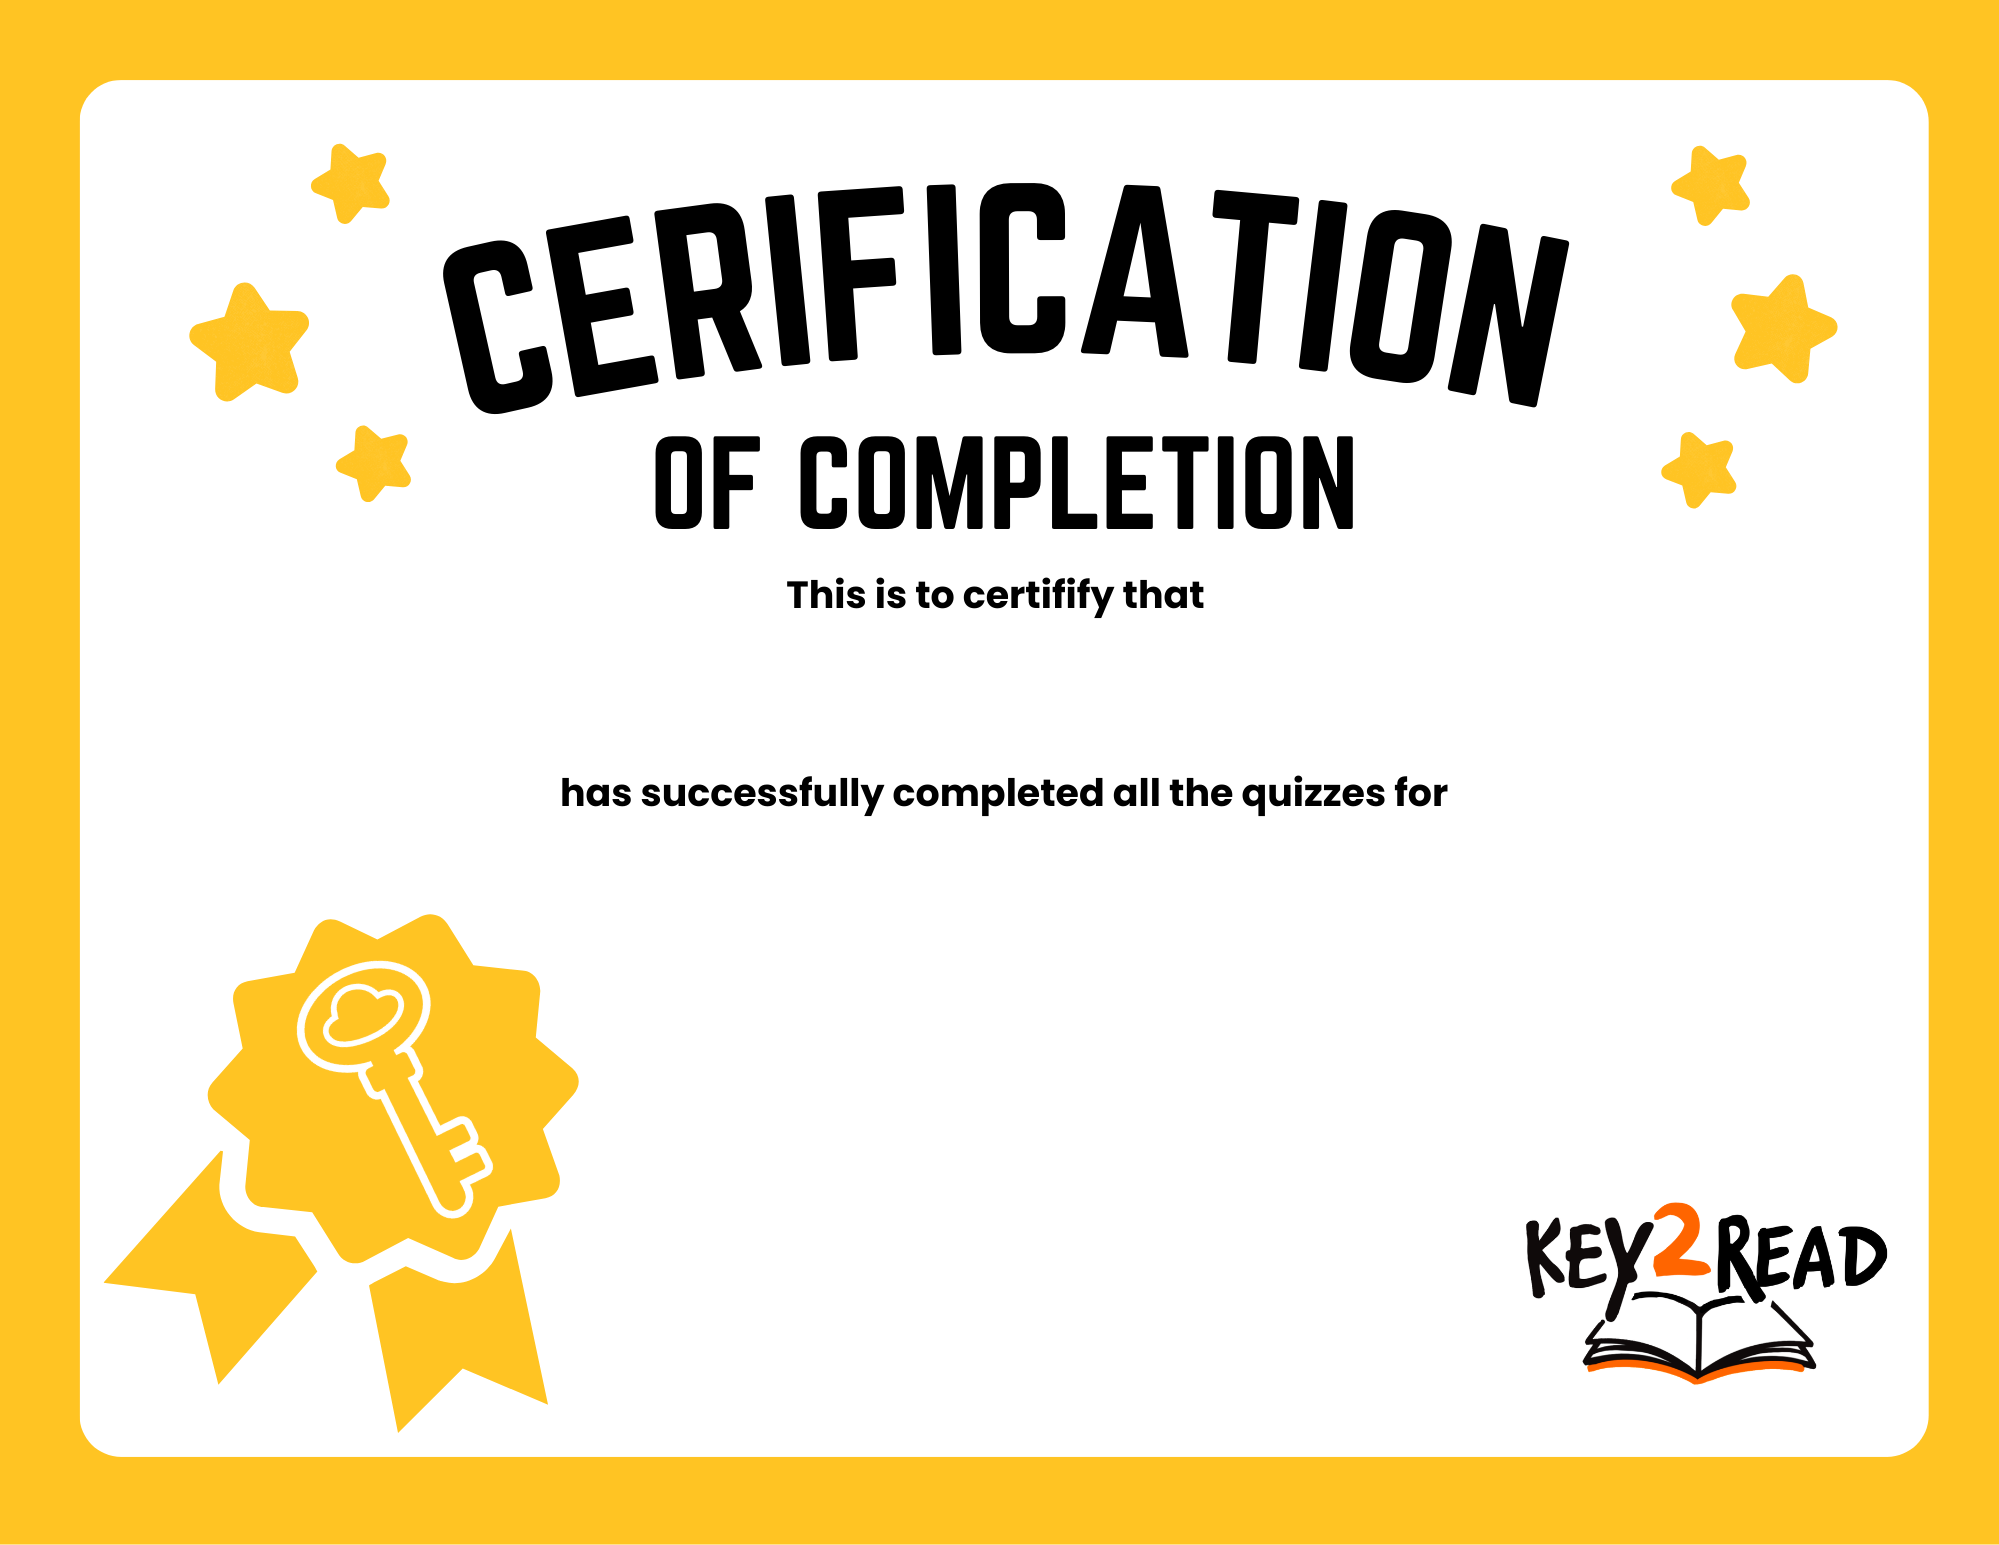
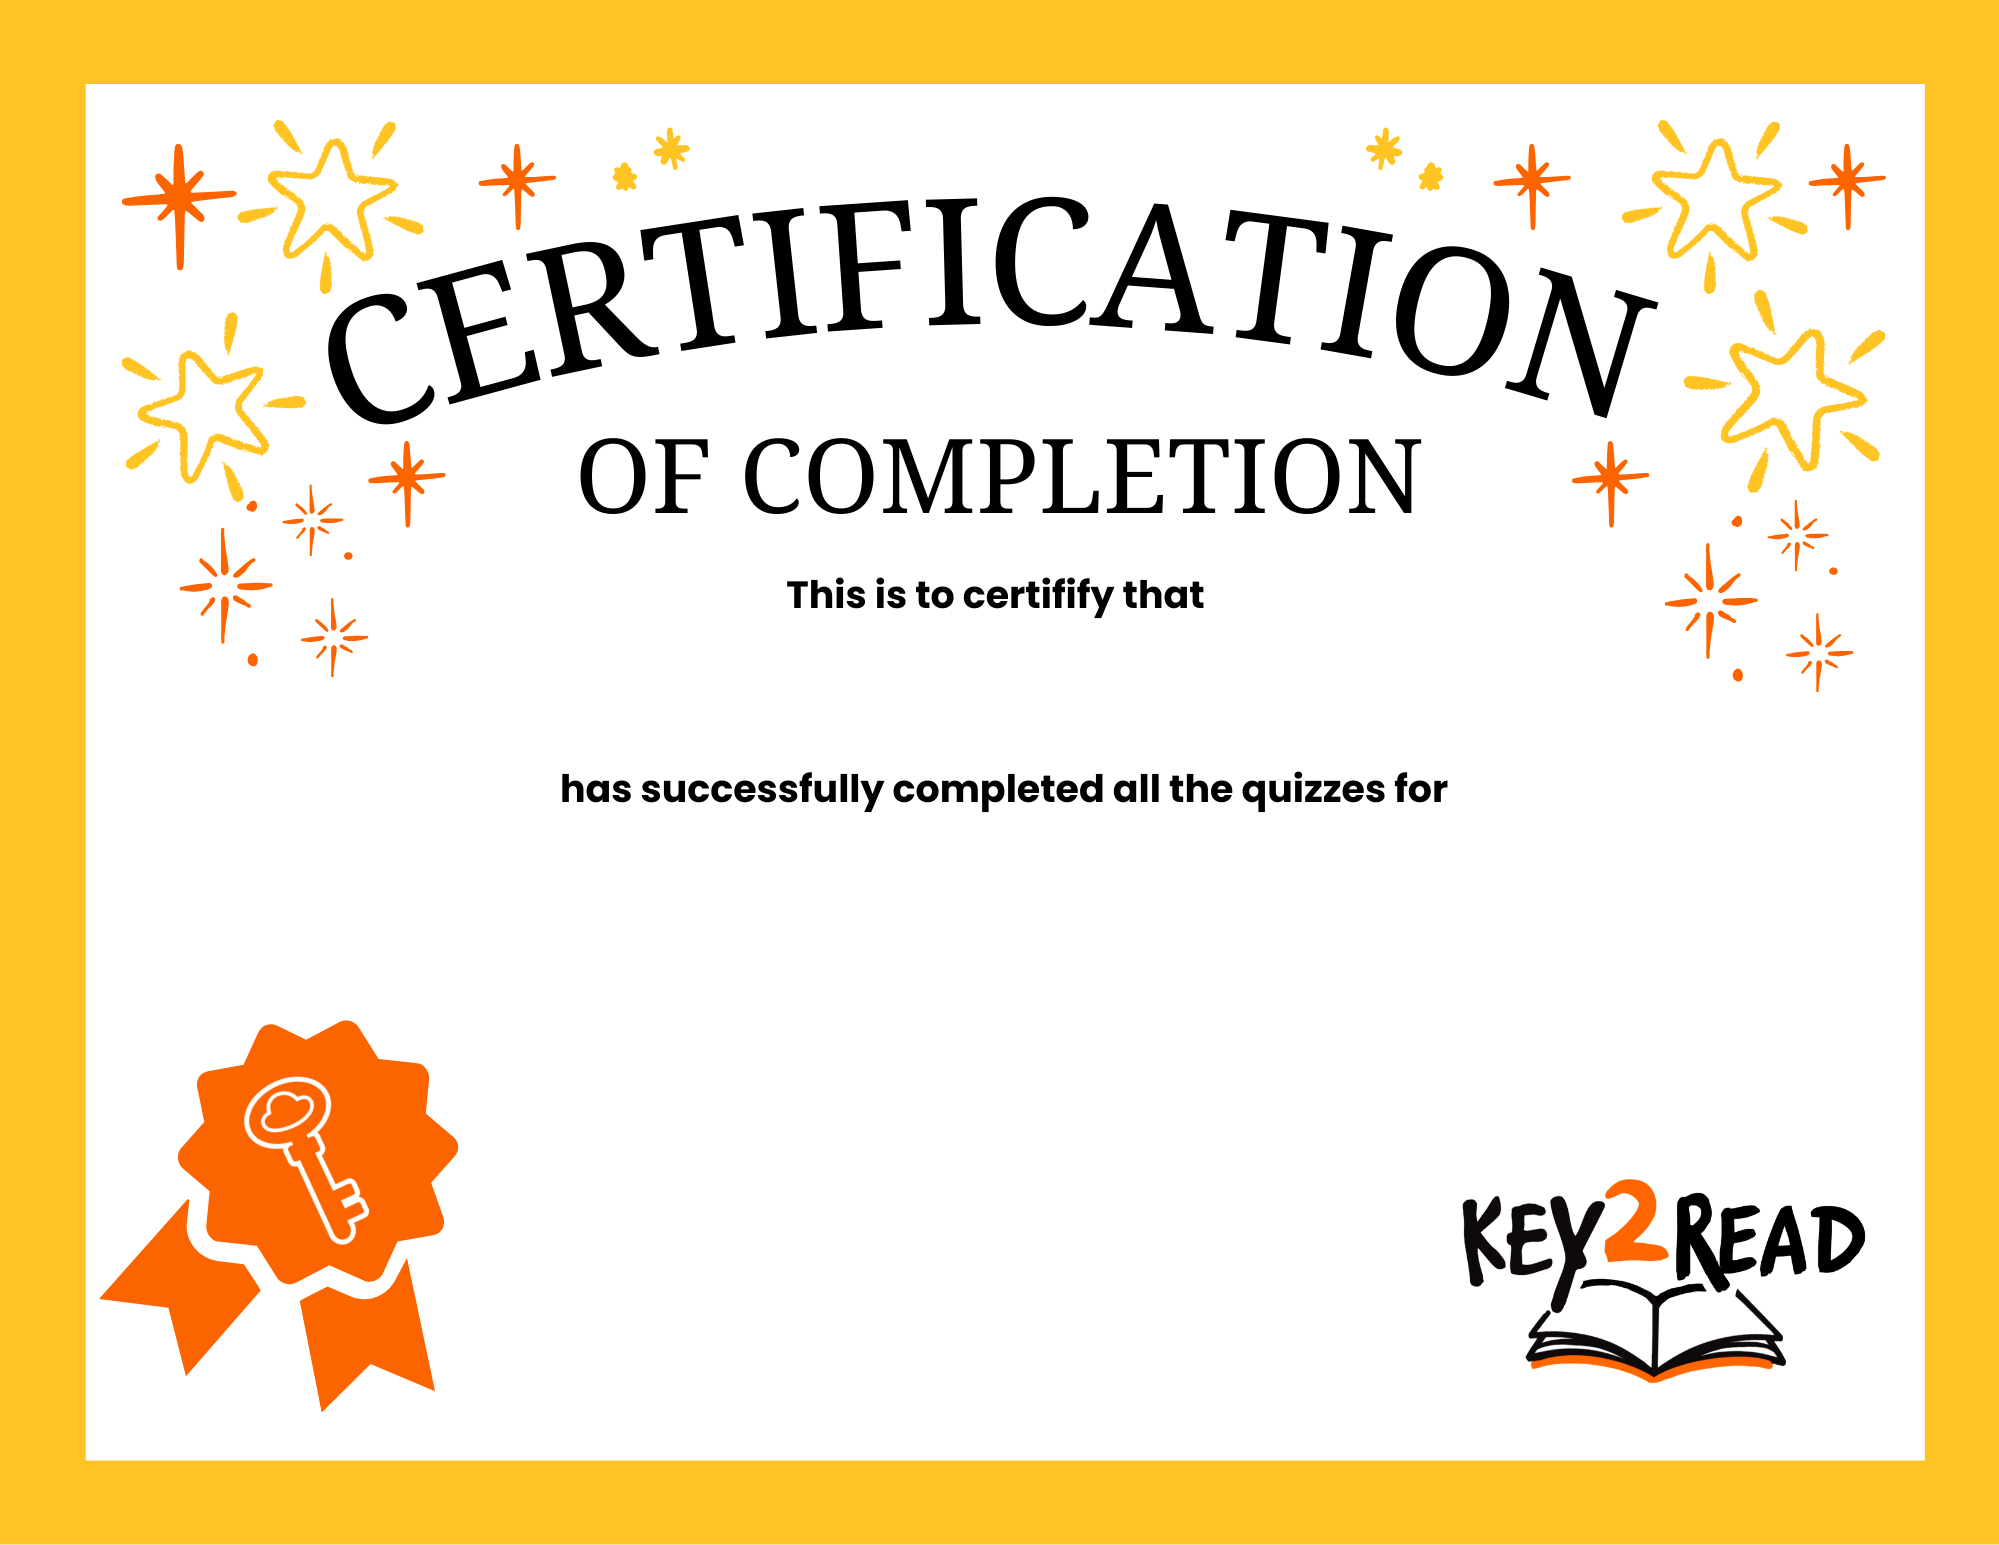
Make info blocks non-clickable, fix remember-me auto-reauth, enlarge certificate book cover, update certificate background
- Remove cursor:pointer and onclick from Pick a Book and Earn Keys blocks
- Add auto-re-authentication in dashboard boot when session expires
- Increase book cover size on PDF and print certificates
- Replace certificate background with updated design

diff --git a/js/app.js b/js/app.js
@@ -1754,7 +1754,7 @@ function renderQuizzes() {
       <h3 style="margin:0 0 4px 0;font-size:1.25rem;font-weight:700;color:var(--navy);display:flex;align-items:center"><img src="/public/Comprehension_Outline_Black_Icon_.png" alt="" style="width:36px;height:36px;margin-right:10px;object-fit:contain">How Does the Software Work?</h3>
       <p style="margin:0 0 16px 0;font-size:0.8rem;color:var(--g400)">Students must read the physical book first · <a href="https://www.dianealber.com/pages/keychapterbooks" target="_blank" style="color:var(--blue);text-decoration:none;font-weight:600">Purchase books here →</a></p>
       <div style="display:grid;grid-template-columns:repeat(3, 1fr);gap:16px">
-        <div style="text-align:center;padding:16px 12px;background:var(--blue-p, #EFF6FF);border-radius:var(--radius-md);cursor:pointer" onclick="navigate('library')">
+        <div style="text-align:center;padding:16px 12px;background:var(--blue-p, #EFF6FF);border-radius:var(--radius-md)">
           <div style="margin-bottom:8px;display:flex;justify-content:center"><img src="/public/Stacked_Book_Outline.png" alt="" style="width:56px;height:56px;object-fit:contain"></div>
           <div style="font-size:0.95rem;font-weight:700;color:var(--navy);margin-bottom:4px">1. Pick a Book</div>
           <div style="font-size:0.75rem;color:var(--g500);line-height:1.4">Students choose a chapter book from the library</div>
@@ -1764,7 +1764,7 @@ function renderQuizzes() {
           <div style="font-size:0.95rem;font-weight:700;color:var(--navy);margin-bottom:4px">2. Take the Quiz</div>
           <div style="font-size:0.75rem;color:var(--g500);line-height:1.4">5 questions test comprehension, vocabulary, and reasoning</div>
         </div>
-        <div style="text-align:center;padding:16px 12px;background:var(--purple-l, #F5F3FF);border-radius:var(--radius-md);cursor:pointer" onclick="navigate('reports')">
+        <div style="text-align:center;padding:16px 12px;background:var(--purple-l, #F5F3FF);border-radius:var(--radius-md)">
           <div style="margin-bottom:8px;display:flex;justify-content:center"><img src="/public/Key_Outline_Icon_Blk.png" alt="" style="width:56px;height:56px;object-fit:contain"></div>
           <div style="font-size:0.95rem;font-weight:700;color:var(--navy);margin-bottom:4px">3. Earn Keys & Grow</div>
           <div style="font-size:0.75rem;color:var(--g500);line-height:1.4">Score 80%+ to earn Keys and boost their Reading Score</div>
@@ -3348,7 +3348,7 @@ function renderLibrary() {
       <h3 style="margin:0 0 4px 0;font-size:1.25rem;font-weight:700;color:var(--navy);display:flex;align-items:center"><img src="/public/Comprehension_Outline_Black_Icon_.png" alt="" style="width:36px;height:36px;margin-right:10px;object-fit:contain">How Does the Software Work?</h3>
       <p style="margin:0 0 16px 0;font-size:0.8rem;color:var(--g400)">Students must read the physical book first · <a href="https://www.dianealber.com/pages/keychapterbooks" target="_blank" style="color:var(--blue);text-decoration:none;font-weight:600">Purchase books here →</a></p>
       <div style="display:grid;grid-template-columns:repeat(3, 1fr);gap:16px">
-        <div style="text-align:center;padding:16px 12px;background:var(--blue-p, #EFF6FF);border-radius:var(--radius-md);cursor:pointer" onclick="navigate('library')">
+        <div style="text-align:center;padding:16px 12px;background:var(--blue-p, #EFF6FF);border-radius:var(--radius-md)">
           <div style="margin-bottom:8px;display:flex;justify-content:center"><img src="/public/Stacked_Book_Outline.png" alt="" style="width:56px;height:56px;object-fit:contain"></div>
           <div style="font-size:0.95rem;font-weight:700;color:var(--navy);margin-bottom:4px">1. Pick a Book</div>
           <div style="font-size:0.75rem;color:var(--g500);line-height:1.4">Students choose a chapter book from the library</div>
@@ -3358,7 +3358,7 @@ function renderLibrary() {
           <div style="font-size:0.95rem;font-weight:700;color:var(--navy);margin-bottom:4px">2. Take the Quiz</div>
           <div style="font-size:0.75rem;color:var(--g500);line-height:1.4">5 questions test comprehension, vocabulary, and reasoning</div>
         </div>
-        <div style="text-align:center;padding:16px 12px;background:var(--purple-l, #F5F3FF);border-radius:var(--radius-md);cursor:pointer" onclick="navigate('reports')">
+        <div style="text-align:center;padding:16px 12px;background:var(--purple-l, #F5F3FF);border-radius:var(--radius-md)">
           <div style="margin-bottom:8px;display:flex;justify-content:center"><img src="/public/Key_Outline_Icon_Blk.png" alt="" style="width:56px;height:56px;object-fit:contain"></div>
           <div style="font-size:0.95rem;font-weight:700;color:var(--navy);margin-bottom:4px">3. Earn Keys & Grow</div>
           <div style="font-size:0.75rem;color:var(--g500);line-height:1.4">Score 80%+ to earn Keys and boost their Reading Score</div>
@@ -3829,9 +3829,9 @@ async function downloadCertificatePDF(params) {
     if (coverUrl) {
       try {
         const coverDataUrl = await loadImage(coverUrl, true);
-        const coverW = 38;
-        const coverH = 50;
-        doc.addImage(coverDataUrl, 'PNG', (w - coverW) / 2, h * 0.70, coverW, coverH);
+        const coverW = 52;
+        const coverH = 68;
+        doc.addImage(coverDataUrl, 'PNG', (w - coverW) / 2, h * 0.68, coverW, coverH);
       } catch(e) { console.log('Could not load book cover for PDF:', e); }
     }
 
@@ -3860,7 +3860,7 @@ function printCertificate(params) {
       .cert-content { position: absolute; inset: 0; display: flex; flex-direction: column; align-items: center; }
       .student-name { position: absolute; top: 46%; left: 50%; transform: translate(-50%, -50%); font-size: 36px; font-weight: 800; color: #1a1a2e; text-align: center; width: 70%; }
       .book-name { position: absolute; top: 62%; left: 50%; transform: translate(-50%, -50%); font-size: 26px; font-weight: 700; color: #1a1a2e; font-style: italic; text-align: center; width: 70%; }
-      .book-cover { position: absolute; top: 70%; left: 50%; transform: translateX(-50%); width: 80px; height: 110px; object-fit: cover; border-radius: 6px; box-shadow: 0 3px 10px rgba(0,0,0,0.25); border: 2px solid #fff; }
+      .book-cover { position: absolute; top: 68%; left: 50%; transform: translateX(-50%); width: 110px; height: 145px; object-fit: cover; border-radius: 6px; box-shadow: 0 3px 10px rgba(0,0,0,0.25); border: 2px solid #fff; }
       .cert-date { position: absolute; bottom: 5%; left: 50%; transform: translateX(-50%); font-size: 11px; color: #777; }
     </style>
   </head><body>
@@ -7043,14 +7043,76 @@ document.addEventListener('DOMContentLoaded', async () => {
       currentUser = me.user;
       userRole = me.user.role || 'teacher';
     } else {
-      // Not logged in — guest mode
-      userRole = 'guest';
-      currentUser = null;
+      // Not logged in — try auto-login from saved remember-me credentials
+      let reauthed = false;
+      const savedCreds = localStorage.getItem('k2r_remember_creds');
+      if (savedCreds) {
+        try {
+          const creds = JSON.parse(atob(savedCreds));
+          if (creds.email && creds.password && creds.role) {
+            const result = await API.login({ email: creds.email, password: creds.password, role: creds.role, rememberMe: true });
+            if (result.user) { currentUser = result.user; userRole = result.user.role || 'teacher'; reauthed = true; }
+          }
+        } catch(e2) { localStorage.removeItem('k2r_remember_creds'); }
+      }
+      // Try student auto-login
+      if (!reauthed) {
+        const savedName = localStorage.getItem('k2r_student_name');
+        const savedCode = localStorage.getItem('k2r_student_classcode');
+        if (savedName && savedCode) {
+          try {
+            const result = await API.login({ name: savedName, classCode: savedCode, role: 'student' });
+            if (result.user) { currentUser = result.user; userRole = result.user.role || 'student'; reauthed = true; }
+          } catch(e2) { localStorage.removeItem('k2r_student_name'); localStorage.removeItem('k2r_student_classcode'); }
+        }
+      }
+      // Try child auto-login
+      if (!reauthed) {
+        const savedChildName = localStorage.getItem('k2r_child_name');
+        const savedFamilyCode = localStorage.getItem('k2r_child_familycode');
+        if (savedChildName && savedFamilyCode) {
+          try {
+            const result = await API.login({ name: savedChildName, classCode: savedFamilyCode, role: 'child' });
+            if (result.user) { currentUser = result.user; userRole = result.user.role || 'student'; reauthed = true; }
+          } catch(e2) { localStorage.removeItem('k2r_child_name'); localStorage.removeItem('k2r_child_familycode'); }
+        }
+      }
+      if (!reauthed) { userRole = 'guest'; currentUser = null; }
     }
   } catch(e) {
-    // API error — guest mode
-    userRole = 'guest';
-    currentUser = null;
+    // API error — try auto-login from saved credentials before falling to guest
+    let reauthed = false;
+    const savedCreds = localStorage.getItem('k2r_remember_creds');
+    if (savedCreds) {
+      try {
+        const creds = JSON.parse(atob(savedCreds));
+        if (creds.email && creds.password && creds.role) {
+          const result = await API.login({ email: creds.email, password: creds.password, role: creds.role, rememberMe: true });
+          if (result.user) { currentUser = result.user; userRole = result.user.role || 'teacher'; reauthed = true; }
+        }
+      } catch(e2) { localStorage.removeItem('k2r_remember_creds'); }
+    }
+    if (!reauthed) {
+      const savedName = localStorage.getItem('k2r_student_name');
+      const savedCode = localStorage.getItem('k2r_student_classcode');
+      if (savedName && savedCode) {
+        try {
+          const result = await API.login({ name: savedName, classCode: savedCode, role: 'student' });
+          if (result.user) { currentUser = result.user; userRole = result.user.role || 'student'; reauthed = true; }
+        } catch(e2) { localStorage.removeItem('k2r_student_name'); localStorage.removeItem('k2r_student_classcode'); }
+      }
+    }
+    if (!reauthed) {
+      const savedChildName = localStorage.getItem('k2r_child_name');
+      const savedFamilyCode = localStorage.getItem('k2r_child_familycode');
+      if (savedChildName && savedFamilyCode) {
+        try {
+          const result = await API.login({ name: savedChildName, classCode: savedFamilyCode, role: 'child' });
+          if (result.user) { currentUser = result.user; userRole = result.user.role || 'student'; reauthed = true; }
+        } catch(e2) { localStorage.removeItem('k2r_child_name'); localStorage.removeItem('k2r_child_familycode'); }
+      }
+    }
+    if (!reauthed) { userRole = 'guest'; currentUser = null; }
   }
 
   // Load books from API and sort: Book 1 first (randomized), then rest (randomized)
